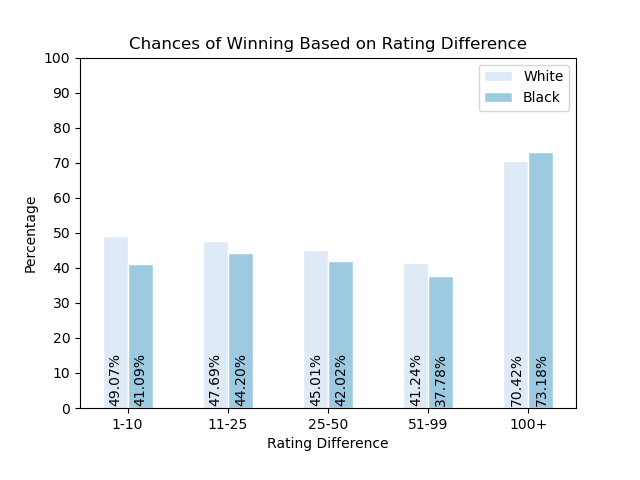
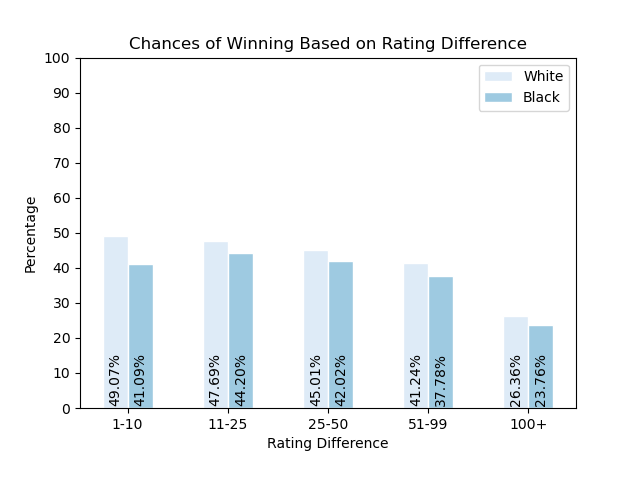
Update pics and program

Changed region(s): [[0.7812, 0.3125, 0.875, 0.6875], [0.7812, 0.75, 0.875, 0.8438]]

diff --git a/Programs/WalkoverChances.py b/Programs/WalkoverChances.py
@@ -2,7 +2,7 @@ import chess.pgn
 import matplotlib.pyplot as plt
 import numpy as np
 
-pgn_game = open("lichess_db_standard_rated_2013-01.pgn")
+pgn_game = open("lichess_db_standard_rated_2014-11.pgn")
 
 """
 Created by Anthony Ha-Anh Pham on July 26, 2020
@@ -25,36 +25,36 @@ def process_game():
         if game.headers["WhiteElo"] == "?" or game.headers["BlackElo"] == "?":
             a += 1
             if a % 1000 == 0:
-                print(f"Finished game #{a} out of 1,209,291 ({float(a)/1209291*100}%)")
+                print(f"Finished game #{a} out of 1,209,291 ({float(a) / 1209291 * 100}%)")
             game = chess.pgn.read_game(pgn_game)
             continue
-            
+
         game_rating_diff = int(game.headers["WhiteElo"]) - int(game.headers["BlackElo"])
-        index = 1 if game_rating_diff >= 0 else 0
+        index = 0 if game_rating_diff >= 0 else 1
 
         if 0 <= abs(game_rating_diff) <= 10:
-            if (game.headers["Result"] == "1-0" and game_rating_diff < 0) or \
-                    (game.headers["Result"] == "0-1" and game_rating_diff > 0):
+            if (game.headers["Result"] == "1-0" and game_rating_diff > 0) or \
+                    (game.headers["Result"] == "0-1" and game_rating_diff < 0):
                 rating_diff["1-10"][index] += 1
             rating_diff["1-10"][index + 2] += 1
         elif 11 <= abs(game_rating_diff) <= 25:
-            if (game.headers["Result"] == "1-0" and game_rating_diff < 0) or \
-                    (game.headers["Result"] == "0-1" and game_rating_diff > 0):
+            if (game.headers["Result"] == "1-0" and game_rating_diff > 0) or \
+                    (game.headers["Result"] == "0-1" and game_rating_diff < 0):
                 rating_diff["11-25"][index] += 1
             rating_diff["11-25"][index + 2] += 1
         elif 26 <= abs(game_rating_diff) <= 50:
-            if (game.headers["Result"] == "1-0" and game_rating_diff < 0) or \
-                    (game.headers["Result"] == "0-1" and game_rating_diff > 0):
+            if (game.headers["Result"] == "1-0" and game_rating_diff > 0) or \
+                    (game.headers["Result"] == "0-1" and game_rating_diff < 0):
                 rating_diff["26-50"][index] += 1
             rating_diff["26-50"][index + 2] += 1
         elif 51 <= abs(game_rating_diff) <= 99:
-            if (game.headers["Result"] == "1-0" and game_rating_diff < 0) or \
-                    (game.headers["Result"] == "0-1" and game_rating_diff > 0):
+            if (game.headers["Result"] == "1-0" and game_rating_diff > 0) or \
+                    (game.headers["Result"] == "0-1" and game_rating_diff < 0):
                 rating_diff["51-99"][index] += 1
             rating_diff["51-99"][index + 2] += 1
         elif 100 <= abs(game_rating_diff):
-            if (game.headers["Result"] == "1-0" and game_rating_diff < 0) or \
-                    (game.headers["Result"] == "0-1" and game_rating_diff > 0):
+            if (game.headers["Result"] == "1-0" and game_rating_diff > 0) or \
+                    (game.headers["Result"] == "0-1" and game_rating_diff < 0):
                 rating_diff["100+"][index] += 1
             rating_diff["100+"][index + 2] += 1
 
@@ -70,8 +70,8 @@ def process_game():
 def convert_rating_diff(rating_diff):
     for key in rating_diff.keys():
         values = rating_diff[key]
-        rating_diff[key] = [float(values[0])/max(1, values[2]) * 100, float(values[1])/max(1, values[3]) * 100]
-        
+        rating_diff[key] = [float(values[0]) / max(1, values[2]) * 100, float(values[1]) / max(1, values[3]) * 100]
+
     return rating_diff
 
 
@@ -87,18 +87,18 @@ def plot_upset_chances():
     black = [value[1] for value in rating_diff.values()]
 
     # Set position of bar on X axis
-    r1 = [x + (bar_width/2) for x in range(1, len(white)+1)]
+    r1 = [x + (bar_width / 2) for x in range(1, len(white) + 1)]
     r2 = [x + bar_width for x in r1]
 
     # Make the plot
     rects1 = plt.bar(r1, white, color="#deebf7", width=bar_width, edgecolor="white", label="White")
     rects2 = plt.bar(r2, black, color="#9ecae1", width=bar_width, edgecolor="white", label="Black")
 
-    plt.xticks([r + bar_width for r in range(1, len(white)+1)], ["1-10", "11-25", "25-50", "51-99", "100+"])
+    plt.xticks([r + bar_width for r in range(1, len(white) + 1)], ["1-10", "11-25", "25-50", "51-99", "100+"])
     plt.yticks(np.arange(0, 101, 10))
     plt.subplots_adjust(bottom=0.15)
 
-    plt.title("Chances of Winning if the Player has less ELO")
+    plt.title("Chances of Winning if the Player has more ELO")
     plt.xlabel("Rating Difference")
     plt.ylabel("Percentage")
 
